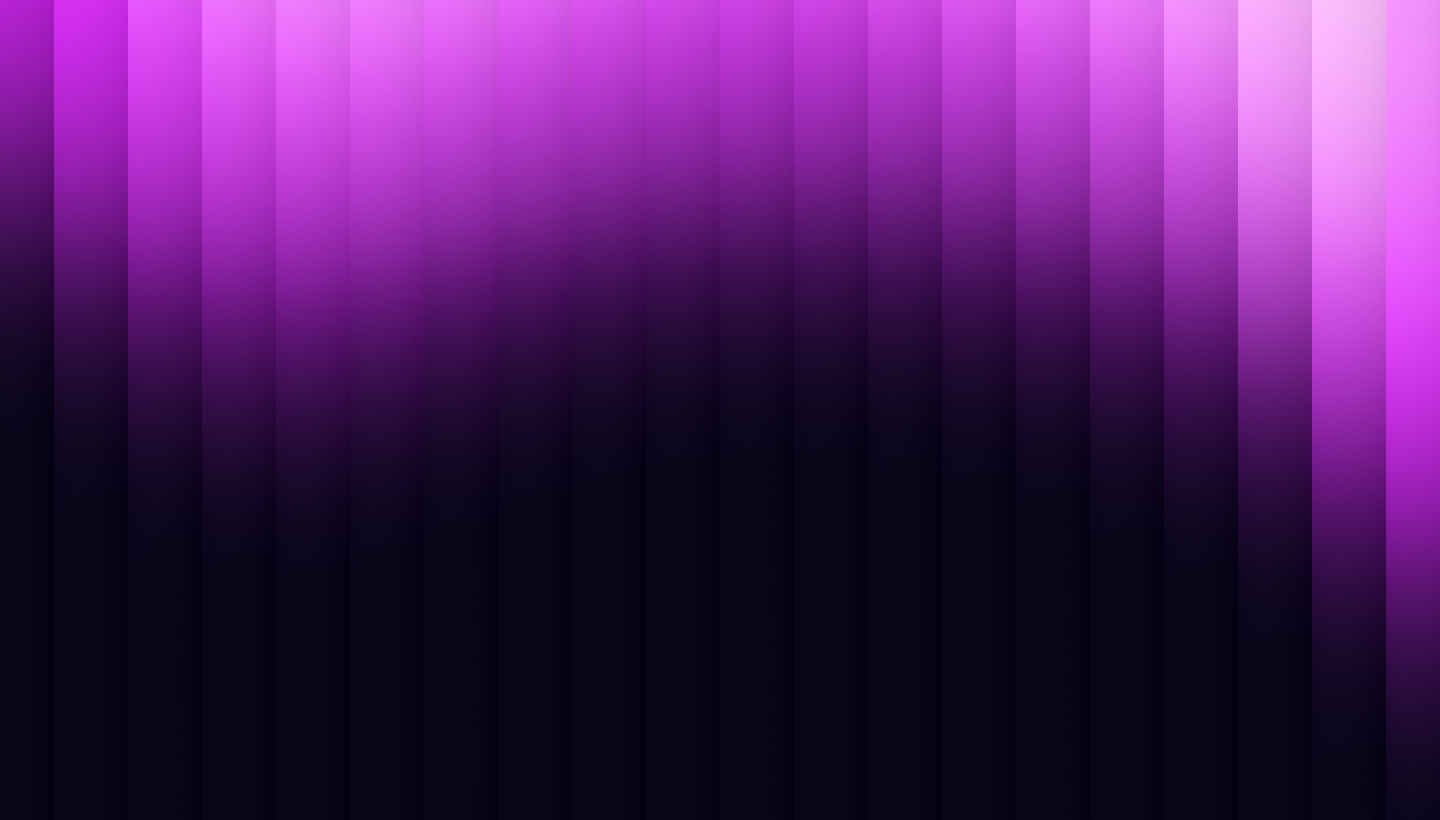
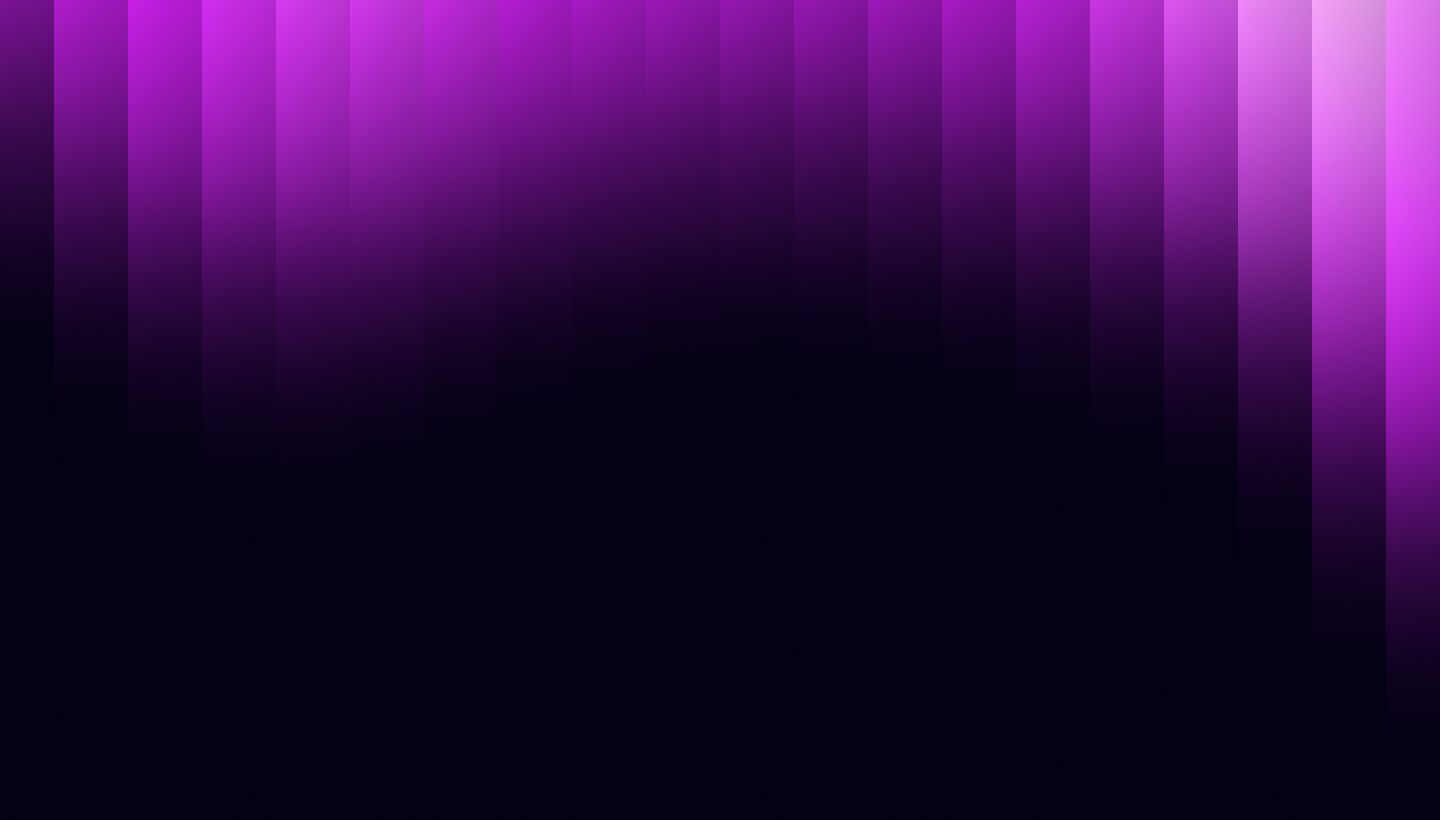
all done for the single page experience, deployment remaining

diff --git a/src/App.jsx b/src/App.jsx
@@ -4,7 +4,7 @@ import { useDebounce } from 'react-use'
 import Search from './components/Search'
 import Spinner from './components/Spinner';
 import MovieCard from './components/MovieCard';
-import { updateSearchCount } from './appwrite';
+import { getTrendingMovies, updateSearchCount } from './appwrite';
 
 const API_BASE_URL = 'https://api.themoviedb.org/3';
 
@@ -22,6 +22,7 @@ const App = () => {
   const [searchTerm, setSearchTerm] = useState('');
   const [errorMessage, setErrorMessage] = useState('');
   const [movieList, setMovieList] = useState([]);
+  const [trendingMovies, setTrendingMovies] = useState([]);
   const [isLoading, setIsLoading] = useState(false);
   const [debouncedSearchTerm, setDebouncedSearchTerm] = useState('');
 
@@ -65,11 +66,26 @@ const App = () => {
     }
   }
 
+  const loadTrendingMovies = async () => {
+    try{
+      const movies = await getTrendingMovies();
+      setTrendingMovies(movies);
+
+    } catch (error){
+      console.error(`Error fetching trending movies: ${error}`);
+      setErrorMessage(`Failed to load trending movies. Please try again later.`);
+    }
+  }
+
   useEffect(() => {
     fetchMovies(debouncedSearchTerm);
   }, [debouncedSearchTerm]);
 
+  useEffect(() => {
+    loadTrendingMovies();
+  }, []);
 
+console.log(trendingMovies);
 
   return (
     <main>
@@ -79,7 +95,7 @@ const App = () => {
 
         <header>
           <img src="./logo.png" alt="logo" className="logoImg h-[54px]" />
-          <img src="./hero.png" alt="hero visual"/>
+          <img src="./hero.png" alt="hero visual" className="heroImg" />
           <h1>
             Find <span className="text-gradient">Movies</span> You'll Love!
           </h1>
@@ -91,8 +107,28 @@ const App = () => {
           <h4 className="text-white">{searchTerm}</h4>
         </div>
 
+        {trendingMovies.length > 0 && (
+          <section className="trending">
+            <h2>Trending Movies</h2>
+
+            <ul>
+              {trendingMovies.map((movie, index) => {
+                return(
+                  <li key={movie.$id}>
+                    <p>{index + 1}</p>
+                    <img src={movie.poster_url} alt={movie.searchTerm} />
+                    {/* <p>{movie.searchTerm}</p> */}
+                  </li>
+                )
+              })}
+              
+            </ul>
+
+          </section>
+        )}
+
         <section className="all-movies">
-          <h2 className="mt-[32px]">All Movies</h2>
+          <h2>All Movies</h2>
 
           {isLoading ? (
             // <p className="text-white">Loading movies...</p>

diff --git a/src/appwrite.js b/src/appwrite.js
@@ -5,7 +5,7 @@ const DATABASE_ID = import.meta.env.VITE_APPWRITE_DATABASE_ID;
 const COLLECTION_ID = import.meta.env.VITE_APPWRITE_COLLECTION_ID;
 
 const client = new Client()
-    .setEndpoint("https://cloud.appwrite.io/v1")
+    .setEndpoint(import.meta.env.VITE_APPWRITE_ENDPOINT)
     .setProject(PROJECT_ID)
 
 const database = new Databases(client);
@@ -39,4 +39,18 @@ export const updateSearchCount = async (searchTerm, movie) => {
 
 
     // console.log(PROJECT_ID, DATABASE_ID, COLLECTION_ID);
+}
+
+export const getTrendingMovies = async () => {
+    try {
+        const result = await database.listDocuments(DATABASE_ID, COLLECTION_ID, [
+            Query.limit(5),
+            Query.orderDesc('count'),
+        ])
+
+        return result.documents;
+
+    } catch (error){
+        console.error(error);
+    }
 }

diff --git a/src/index.css b/src/index.css
@@ -41,16 +41,16 @@
 
   header {
     /* @apply sm:mt-10 mt-5; */
-    @apply sm:mt-10 mt-5 flex flex-col items-center gap-0;
+    @apply sm:mt-5 mt-0 flex flex-col items-center gap-0;
   }
 
-  header img {
-    @apply w-full max-w-lg h-auto object-contain mx-auto drop-shadow-md;
+  .heroImg {
+    @apply w-full max-w-lg h-auto object-contain -mt-8 drop-shadow-md;
   }
 
   .logoImg {
     /* @apply w-full max-w-lg h-auto object-contain mx-auto drop-shadow-md; */
-    @apply w-fit h-auto object-contain mx-auto drop-shadow-md;
+    @apply w-fit h-auto object-contain mx-auto -mt-4 drop-shadow-md;
   }
 }
 
@@ -60,14 +60,14 @@
   }
 
   .wrapper {
-    @apply px-5 py-12 xs:p-10 max-w-7xl mx-auto flex flex-col relative z-10;
+    @apply px-5 py-12 xs:p-10 max-w-7xl mx-auto flex flex-col relative z-10 gap-0;
   }
 
   .trending {
     @apply mt-20;
 
     & ul {
-      @apply flex flex-row overflow-y-auto gap-5 -mt-10 w-full hide-scrollbar;
+      @apply flex flex-row overflow-y-auto overflow-visible gap-5 -mt-10 w-full hide-scrollbar;
     }
 
     & ul li {